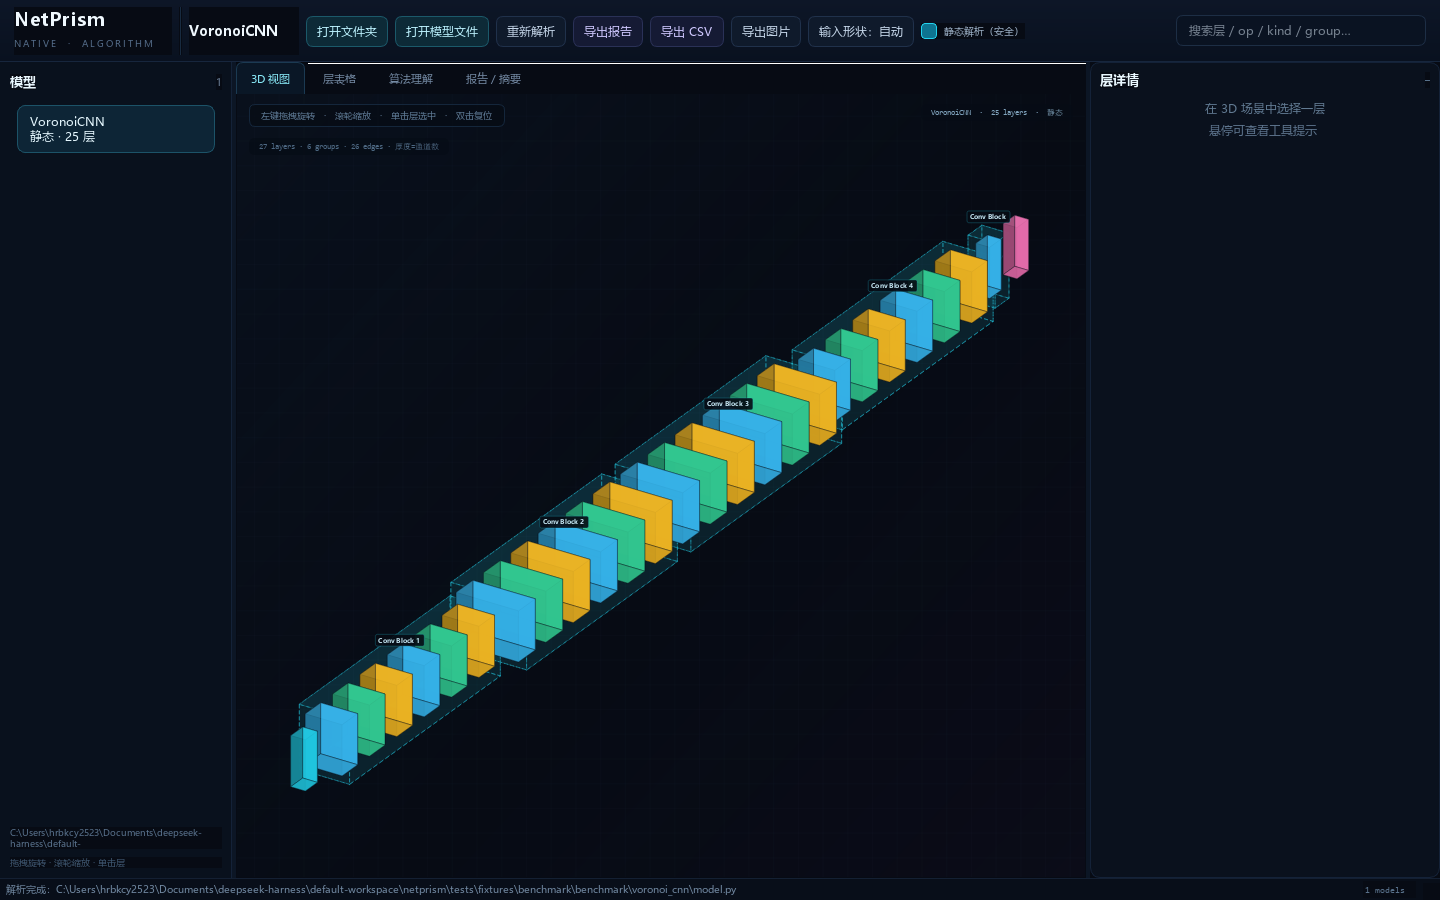
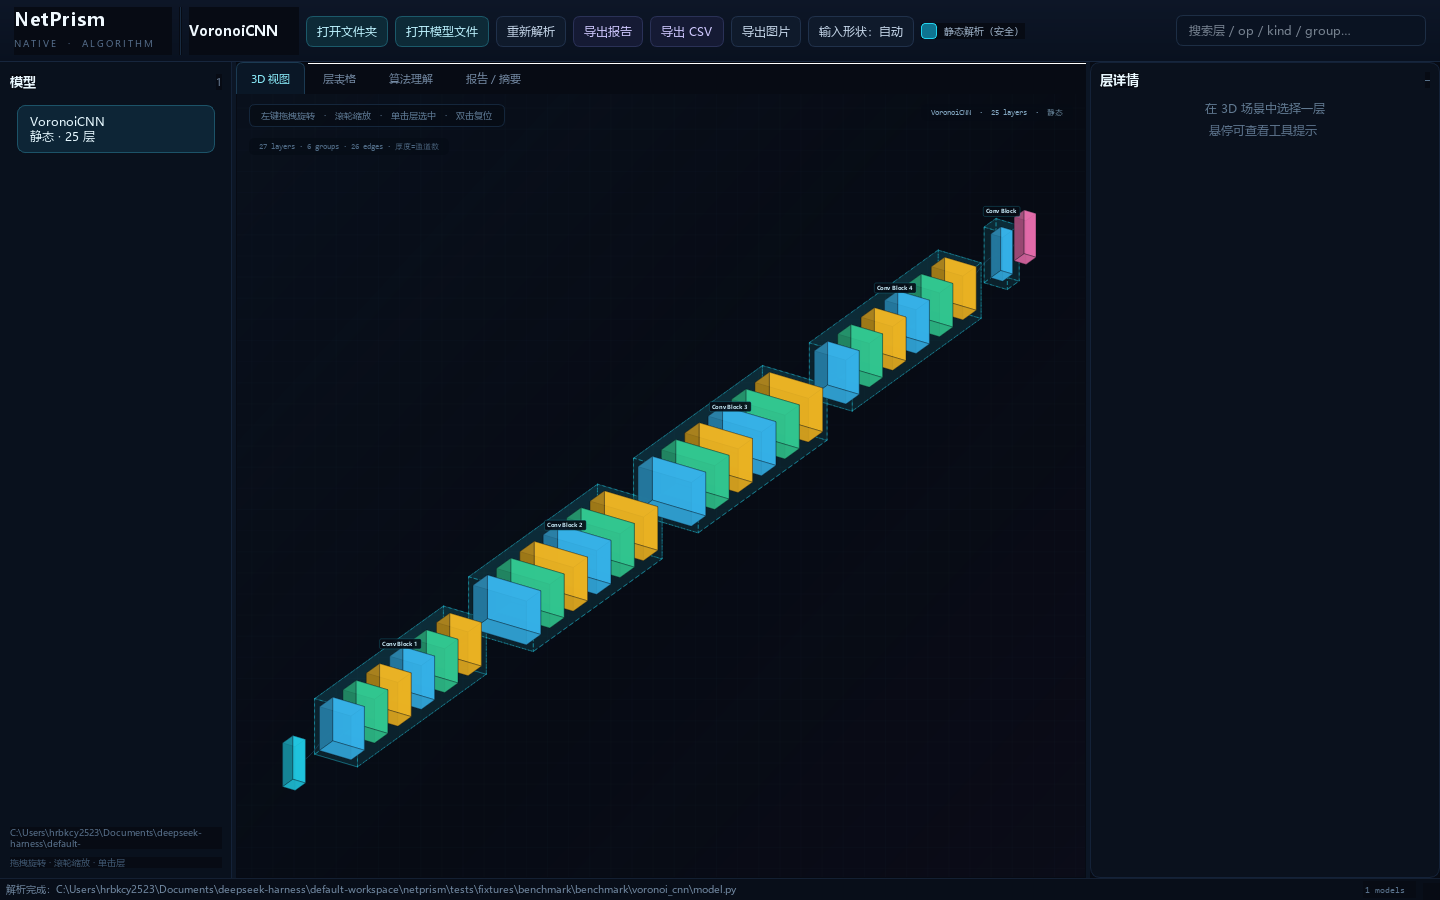
Separate 3D groups with explicit spacing

Changed region(s): [[0.1875, 0.2178, 0.7188, 0.9022]]

diff --git a/web/js/layout.js b/web/js/layout.js
@@ -335,7 +335,7 @@ export function computeLayout(graph) {
     let gap = 1.0;
     if (prev) {
       const groupChanged = prev.groupId !== item.groupId;
-      gap = groupChanged ? 1.95 : 0.76;
+      gap = groupChanged ? 4.0 : 0.76;
       if (item.hasKernels) gap = Math.max(gap, 1.58);
       if (prev.hasKernels) gap = Math.max(gap, 1.48);
       if (item.isBoundary || prev.isBoundary) gap = Math.max(gap, 1.65);

diff --git a/netprism/gui/scene3d.py b/netprism/gui/scene3d.py
@@ -42,6 +42,7 @@ from .theme import (
 SCALE = 42.0
 DEFAULT_YAW = -1.0
 DEFAULT_PITCH = 0.48
+GROUP_GAP = 4.2
 #: Candidate presentation angles; export picks the one closest to 16:9.
 EXPORT_ANGLES = (
     (-1.00, 0.48),
@@ -373,6 +374,8 @@ class Graph3DView(QGraphicsView):
         max_spatial = max(raw_spatial) or 1.0
         max_channel_count = max((item[2] for item in dims), default=1.0) or 1.0
         max_channel_count = max((item[2] for item in dims), default=1.0) or 1.0
+        cursor = 0.0
+        previous_group: str | None = None
         for index, node in enumerate(self.nodes):
             raw_v, raw_s, raw_c = dims[index]
             log_v = math.log10(raw_v + 1) / max_volume
@@ -383,8 +386,12 @@ class Graph3DView(QGraphicsView):
             dx = 0.68 + 0.58 * log_v
             dy = 0.78 + 1.55 * log_s
             dz = 0.55 + 2.45 * channel_ratio
+            group_id = str(node.get("groupId") or "")
+            if index:
+                cursor += GROUP_GAP if group_id != previous_group and group_id else 2.05
+            previous_group = group_id or None
             self.positions[str(node.get("id"))] = (
-                (index * 2.05, 0.0, 0.0),
+                (cursor, 0.0, 0.0),
                 (dx, dy, dz),
             )
 
